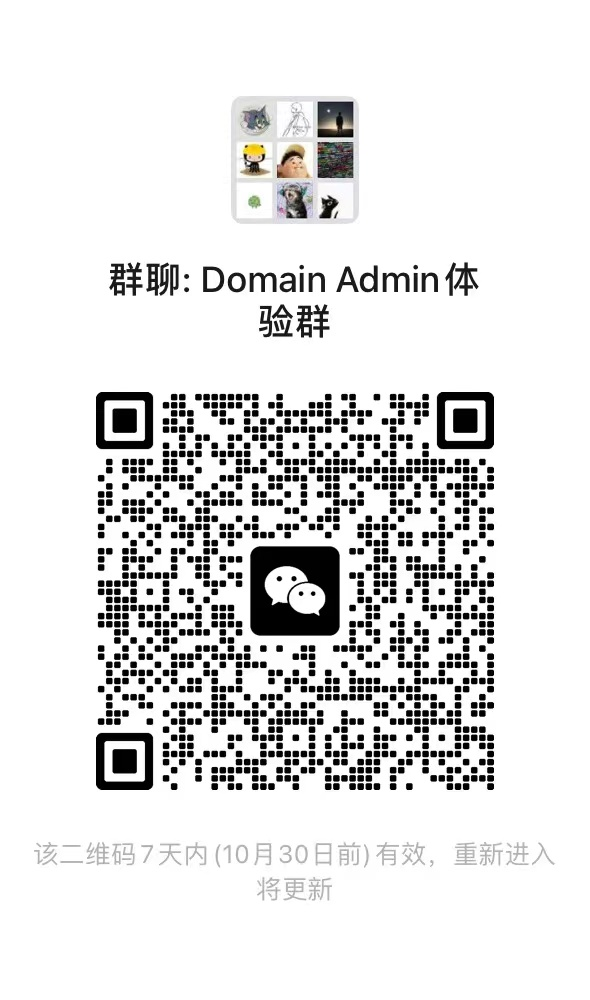
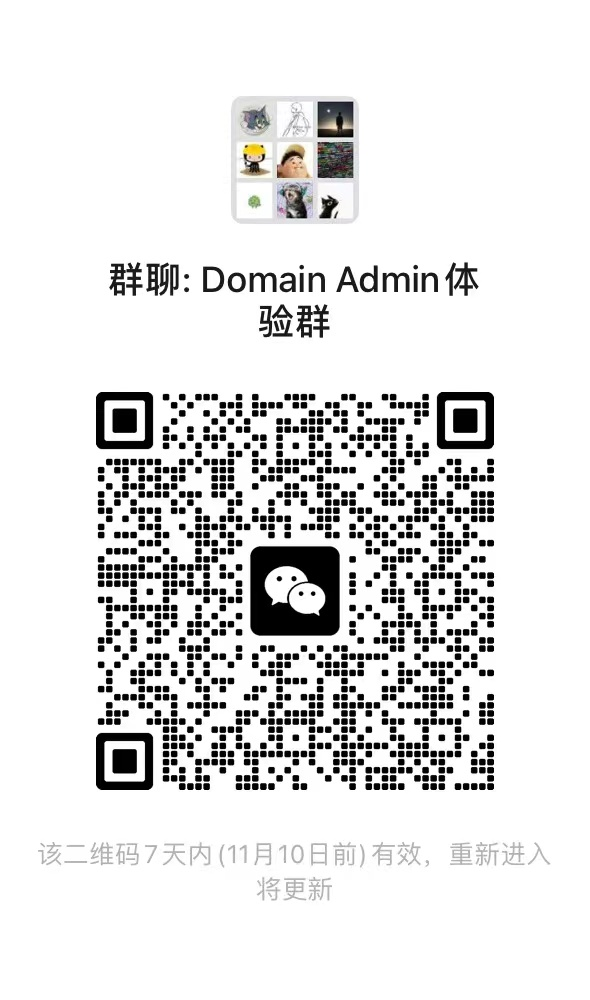
完善文档

diff --git a/README.md b/README.md
@@ -80,6 +80,12 @@ QQ群号: 731742868
 
 <img src="https://gitee.com/mouday/domain-admin/raw/master/image/wechat-group.jpg" width="300">
 
+如果二维码过期，请先添加群主微信
+
+<img src="https://gitee.com/mouday/domain-admin/raw/master/image/coding-big-tree.jpg" width="300">
+
+回复备注：domain-admin
+
 ## 更新日志
 
 [CHANGELOG.md](https://domain-admin.readthedocs.io/zh_CN/latest/manual/changelog.html)
@@ -105,12 +111,6 @@ QQ群号: 731742868
 配置：一个域名 + 一台服务器
 
 <img src="https://gitee.com/mouday/domain-admin/raw/master/image/afdian-吃个大西瓜.jpeg" width="300">
-
-## 联系作者
-
-微信扫码二维码
-
-<img src="https://gitee.com/mouday/domain-admin/raw/master/image/coding-big-tree.jpg" width="300">
 
 ## 友情链接：
 
